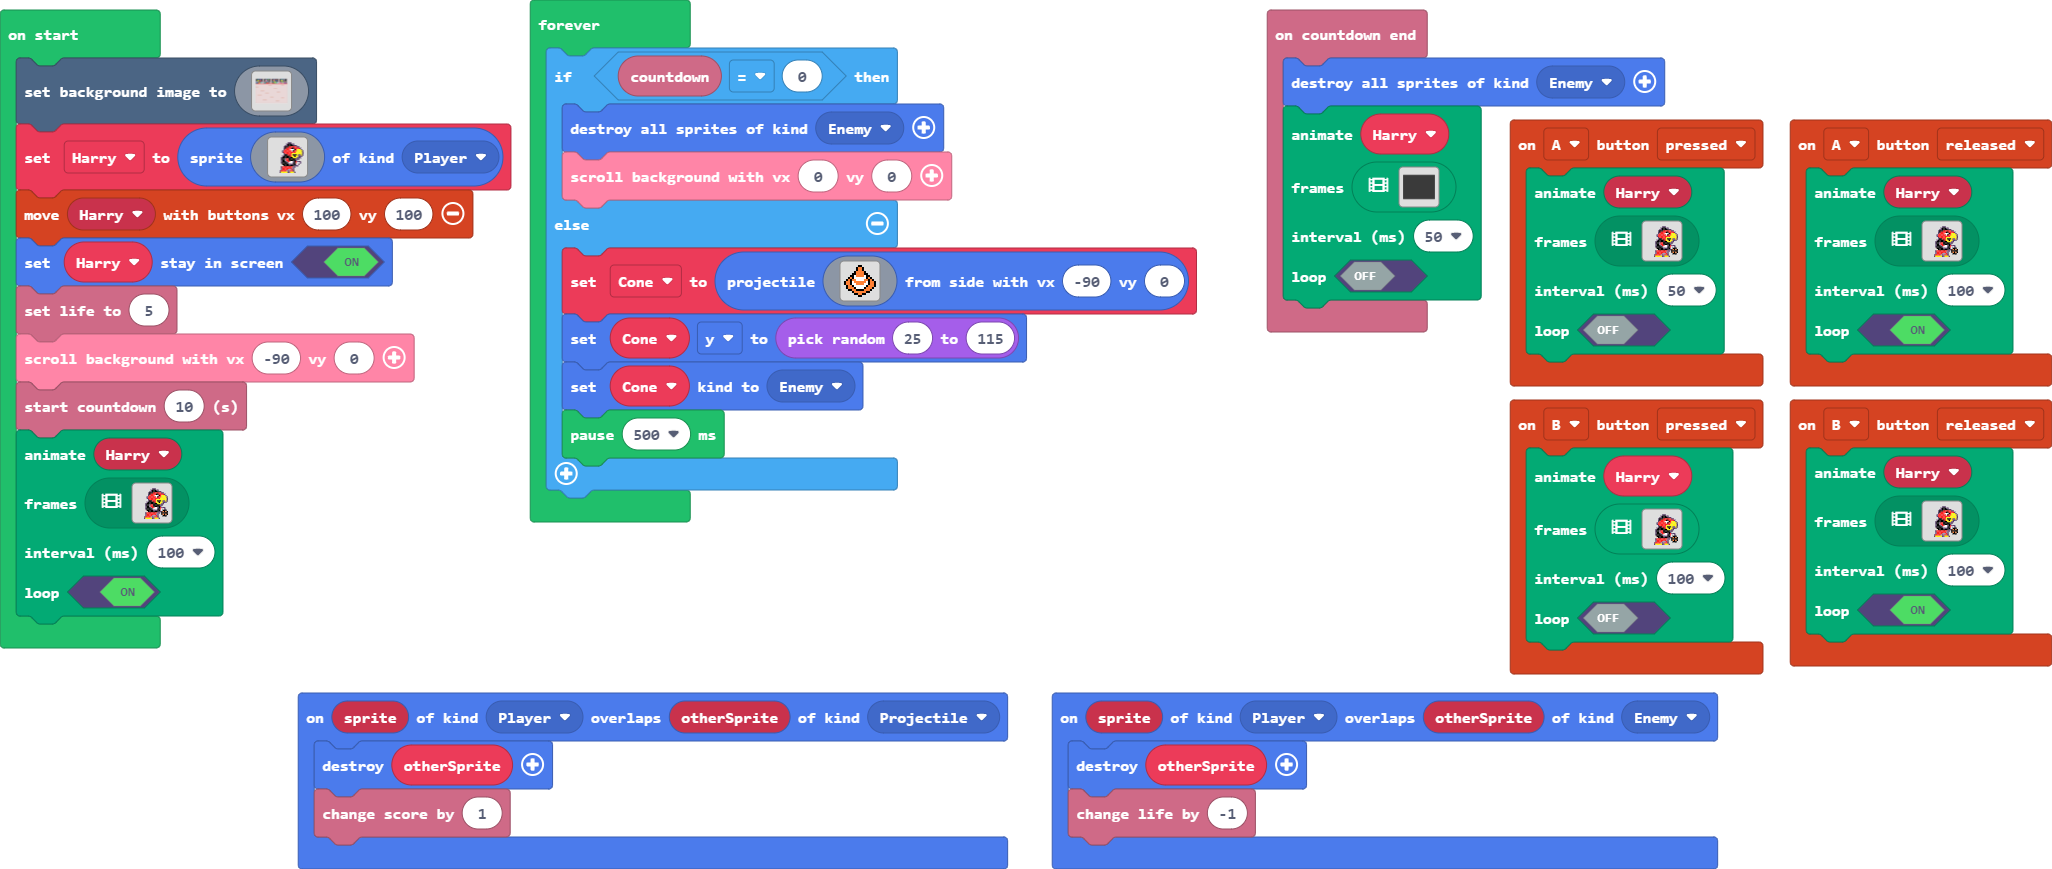
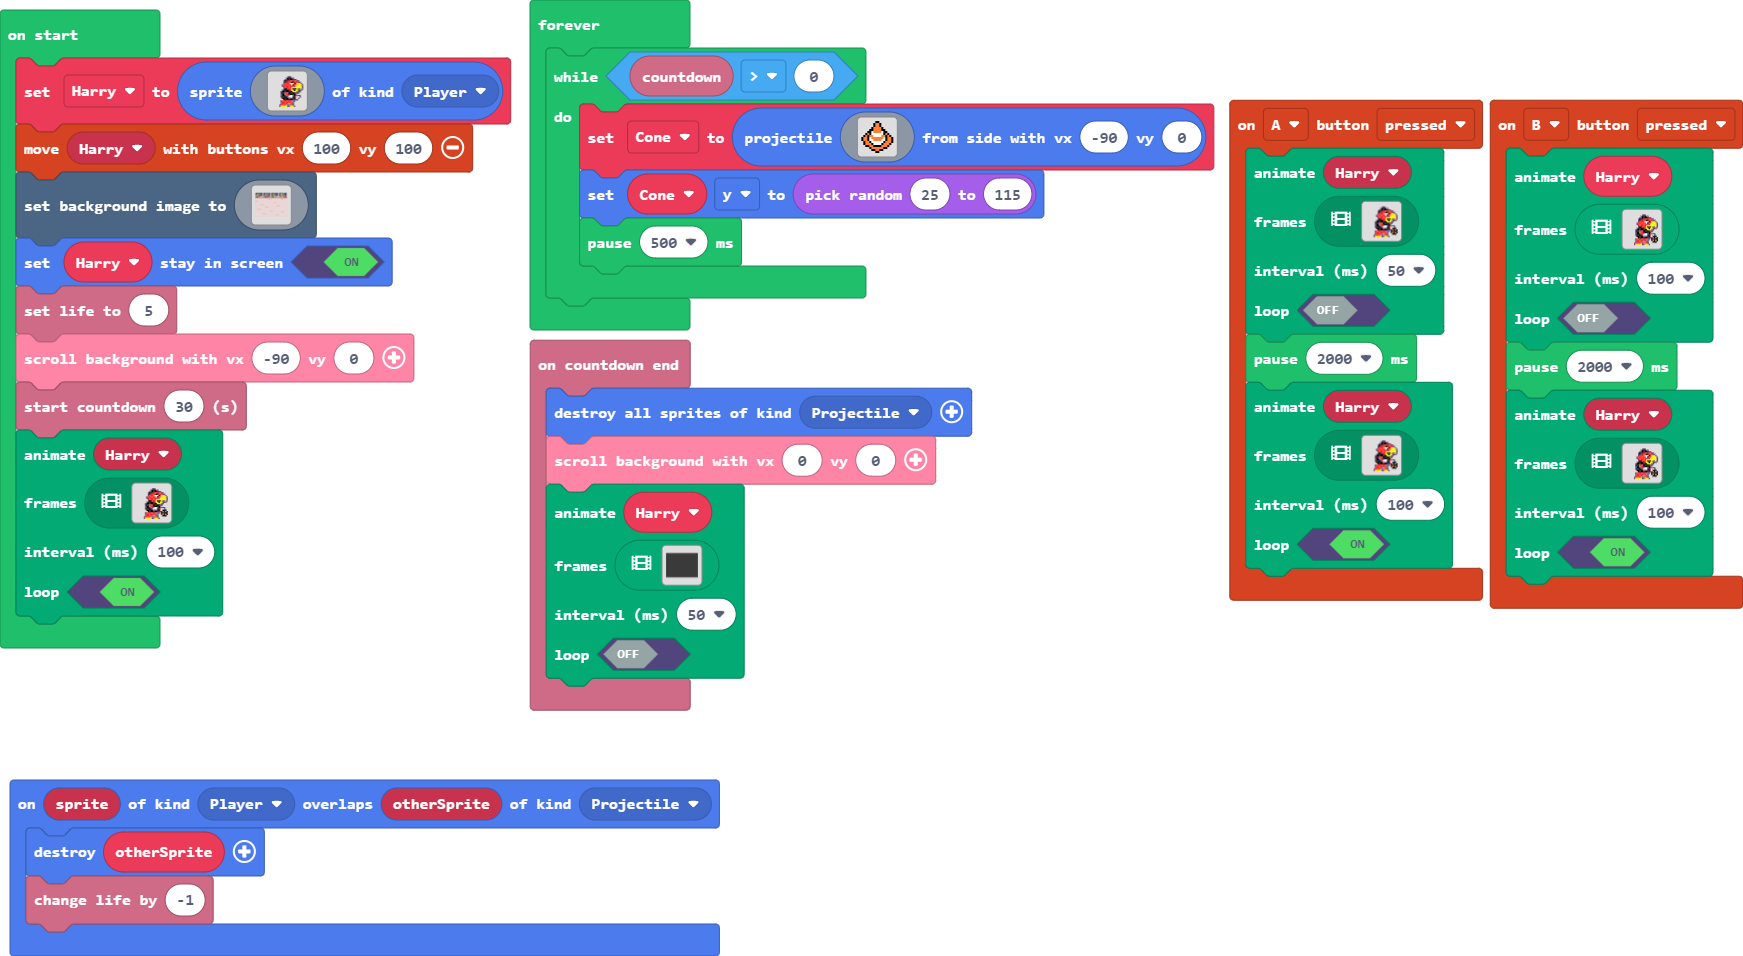
Update pxt.json, main.blocks, main.ts, pxt.json

diff --git a/main.ts b/main.ts
@@ -9,6 +9,13 @@ controller.B.onEvent(ControllerButtonEvent.Pressed, function () {
     100,
     false
     )
+    pause(2000)
+    animation.runImageAnimation(
+    Harry,
+    assets.animation`HarryDribblingFinal`,
+    100,
+    true
+    )
 })
 controller.A.onEvent(ControllerButtonEvent.Pressed, function () {
     animation.runImageAnimation(
@@ -17,9 +24,17 @@ controller.A.onEvent(ControllerButtonEvent.Pressed, function () {
     50,
     false
     )
+    pause(2000)
+    animation.runImageAnimation(
+    Harry,
+    assets.animation`HarryDribblingFinal`,
+    100,
+    true
+    )
 })
 info.onCountdownEnd(function () {
-    sprites.destroyAllSpritesOfKind(SpriteKind.Enemy)
+    sprites.destroyAllSpritesOfKind(SpriteKind.Projectile)
+    scroller.scrollBackgroundWithSpeed(0, 0)
     animation.runImageAnimation(
     Harry,
     assets.animation`DunkAnimationFinal`,
@@ -29,37 +44,17 @@ info.onCountdownEnd(function () {
 })
 sprites.onOverlap(SpriteKind.Player, SpriteKind.Projectile, function (sprite, otherSprite) {
     otherSprite.destroy()
-    info.changeScoreBy(1)
-})
-controller.A.onEvent(ControllerButtonEvent.Released, function () {
-    animation.runImageAnimation(
-    Harry,
-    assets.animation`HarryDribblingFinal`,
-    100,
-    true
-    )
-})
-controller.B.onEvent(ControllerButtonEvent.Released, function () {
-    animation.runImageAnimation(
-    Harry,
-    assets.animation`HarryDribblingFinal`,
-    100,
-    true
-    )
-})
-sprites.onOverlap(SpriteKind.Player, SpriteKind.Enemy, function (sprite, otherSprite) {
-    otherSprite.destroy()
     info.changeLifeBy(-1)
 })
 let Cone: Sprite = null
 let Harry: Sprite = null
-scene.setBackgroundImage(assets.image`BB Court w Audience`)
 Harry = sprites.create(assets.image`HarrytheHawk`, SpriteKind.Player)
 controller.moveSprite(Harry, 100, 100)
+scene.setBackgroundImage(assets.image`BB Court w Audience`)
 Harry.setStayInScreen(true)
 info.setLife(5)
 scroller.scrollBackgroundWithSpeed(-90, 0)
-info.startCountdown(10)
+info.startCountdown(30)
 animation.runImageAnimation(
 Harry,
 assets.animation`HarryDribblingFinal`,
@@ -67,13 +62,9 @@ assets.animation`HarryDribblingFinal`,
 true
 )
 forever(function () {
-    if (info.countdown() == 0) {
-        sprites.destroyAllSpritesOfKind(SpriteKind.Enemy)
-        scroller.scrollBackgroundWithSpeed(0, 0)
-    } else {
+    while (info.countdown() > 0) {
         Cone = sprites.createProjectileFromSide(assets.image`Pylon`, -90, 0)
         Cone.y = randint(25, 115)
-        Cone.setKind(SpriteKind.Enemy)
         pause(500)
     }
 })
